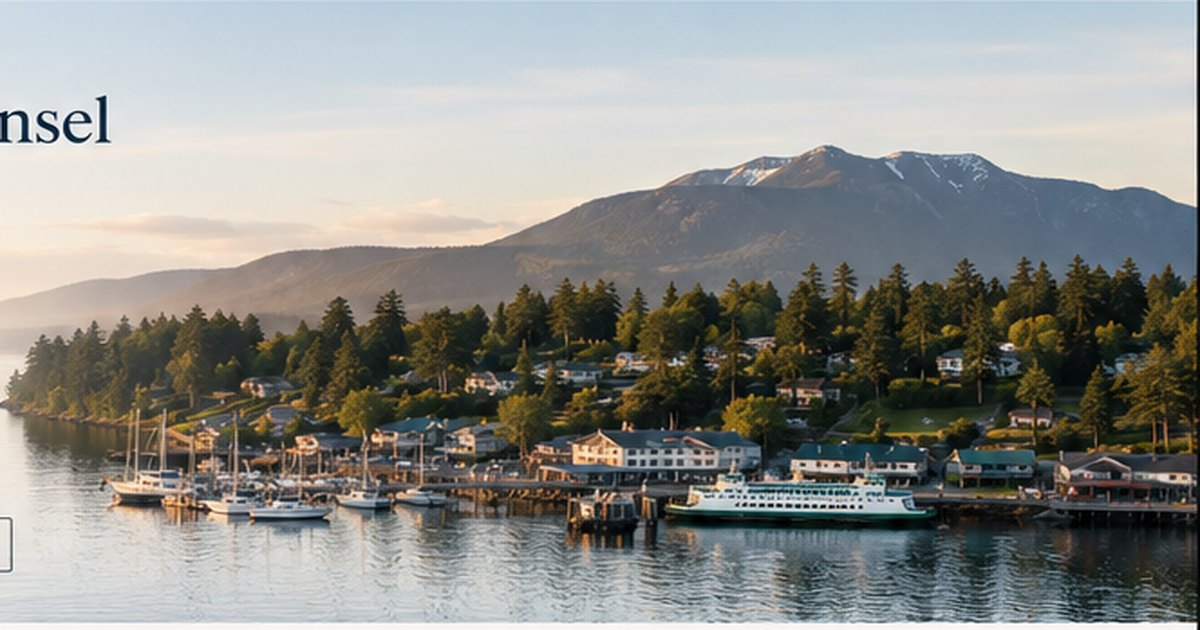
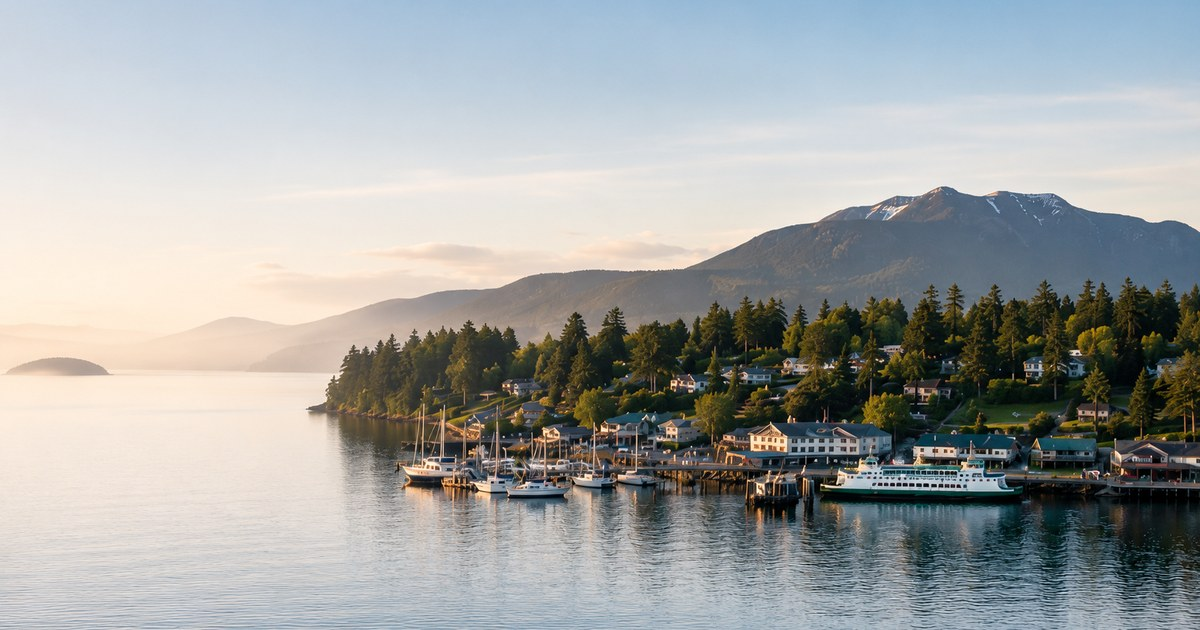
Real hero photo + swap the attorney portrait to a man
Hero: replaced the 594x374 comp crop with the supplied 1717x916 image.
Same Eastsound harbour framing but real and sharp, and the composition is
right for the slot -- calm water and sky on the left where the scrim sits,
harbour + Mount Constitution on the right. og-image regenerated from it
(the source is 1.87:1, so it crops to 1200x630 almost cleanly).

Portrait: the comp's photo was of a woman while the site names Derek Mann,
so it was contradictory. Swapped for an Unsplash shot of a man -- seated at
a desk, hands clasped, suit, warm office -- which mirrors the comp's
composition. Picked over a tighter headshot that cropped to a looming
face-fill in this wide slot, and over the arms-crossed studio portraits the
brief warns off as "stiff or overly posed".

The source is a tall 1400x2100 portrait in a landscape slot, so it needs
object-position: 50% 46% -- the default centre crops his head off. 46% keeps
the face placed naturally with the hands just in frame, on desktop and
mobile both.

Dimension attributes updated on both imgs so they don't cause layout shift,
and the portrait's alt no longer describes a woman.

STILL A PLACEHOLDER: this is a stock photo, not Derek Mann. Unsplash's
licence covers commercial use but does not grant likeness rights to present
someone as a specific named attorney -- fine for a demo, must be a real
photo of the actual attorney before this is a live firm's site.

Verified: 5/5 pages 200, fonts loaded, 12/12 reveals fire, mobile menu
[…]

diff --git a/index.html b/index.html
@@ -75,7 +75,7 @@
   <!-- ============ hero ============ -->
   <section class="hero">
     <div class="hero-media">
-      <img src="images/hero-eastsound-harbor.webp" alt="Eastsound harbor on Orcas Island, with moored boats and Mount Constitution beyond" fetchpriority="high" width="664" height="374">
+      <img src="images/hero-eastsound-harbor.webp" alt="Eastsound harbor on Orcas Island at golden hour — moored boats, the ferry at the dock, and Mount Constitution beyond" fetchpriority="high" width="1717" height="916">
     </div>
     <div class="container">
       <div class="hero-inner">
@@ -174,7 +174,7 @@
   <!-- ============ why orcas law ============ -->
   <section class="why" id="why">
     <div class="why-media reveal">
-      <img src="images/attorney-portrait.webp" alt="An Orcas Law attorney at their desk in the firm's Eastsound office" loading="lazy" width="490" height="298">
+      <img src="images/attorney-portrait.webp" alt="An Orcas Law attorney at the firm's Eastsound office" loading="lazy" width="1400" height="2100">
     </div>
     <div class="why-body reveal">
       <p class="eyebrow">Why Orcas Law?</p>

diff --git a/styles.css b/styles.css
@@ -166,6 +166,9 @@ h1,h2,h3,.serif{
 .why-media{position:relative;min-height:300px;overflow:hidden}
 .why-media img{
   position:absolute;inset:0;width:100%;height:100%;object-fit:cover;
+  /* the source is a tall portrait but this slot is landscape — bias up so the
+     face stays in frame instead of being cropped off the top */
+  object-position:50% 46%;
   transition:transform .7s var(--ease);   /* brief: slight image zoom on hover */
 }
 .why-media:hover img{transform:scale(1.04)}